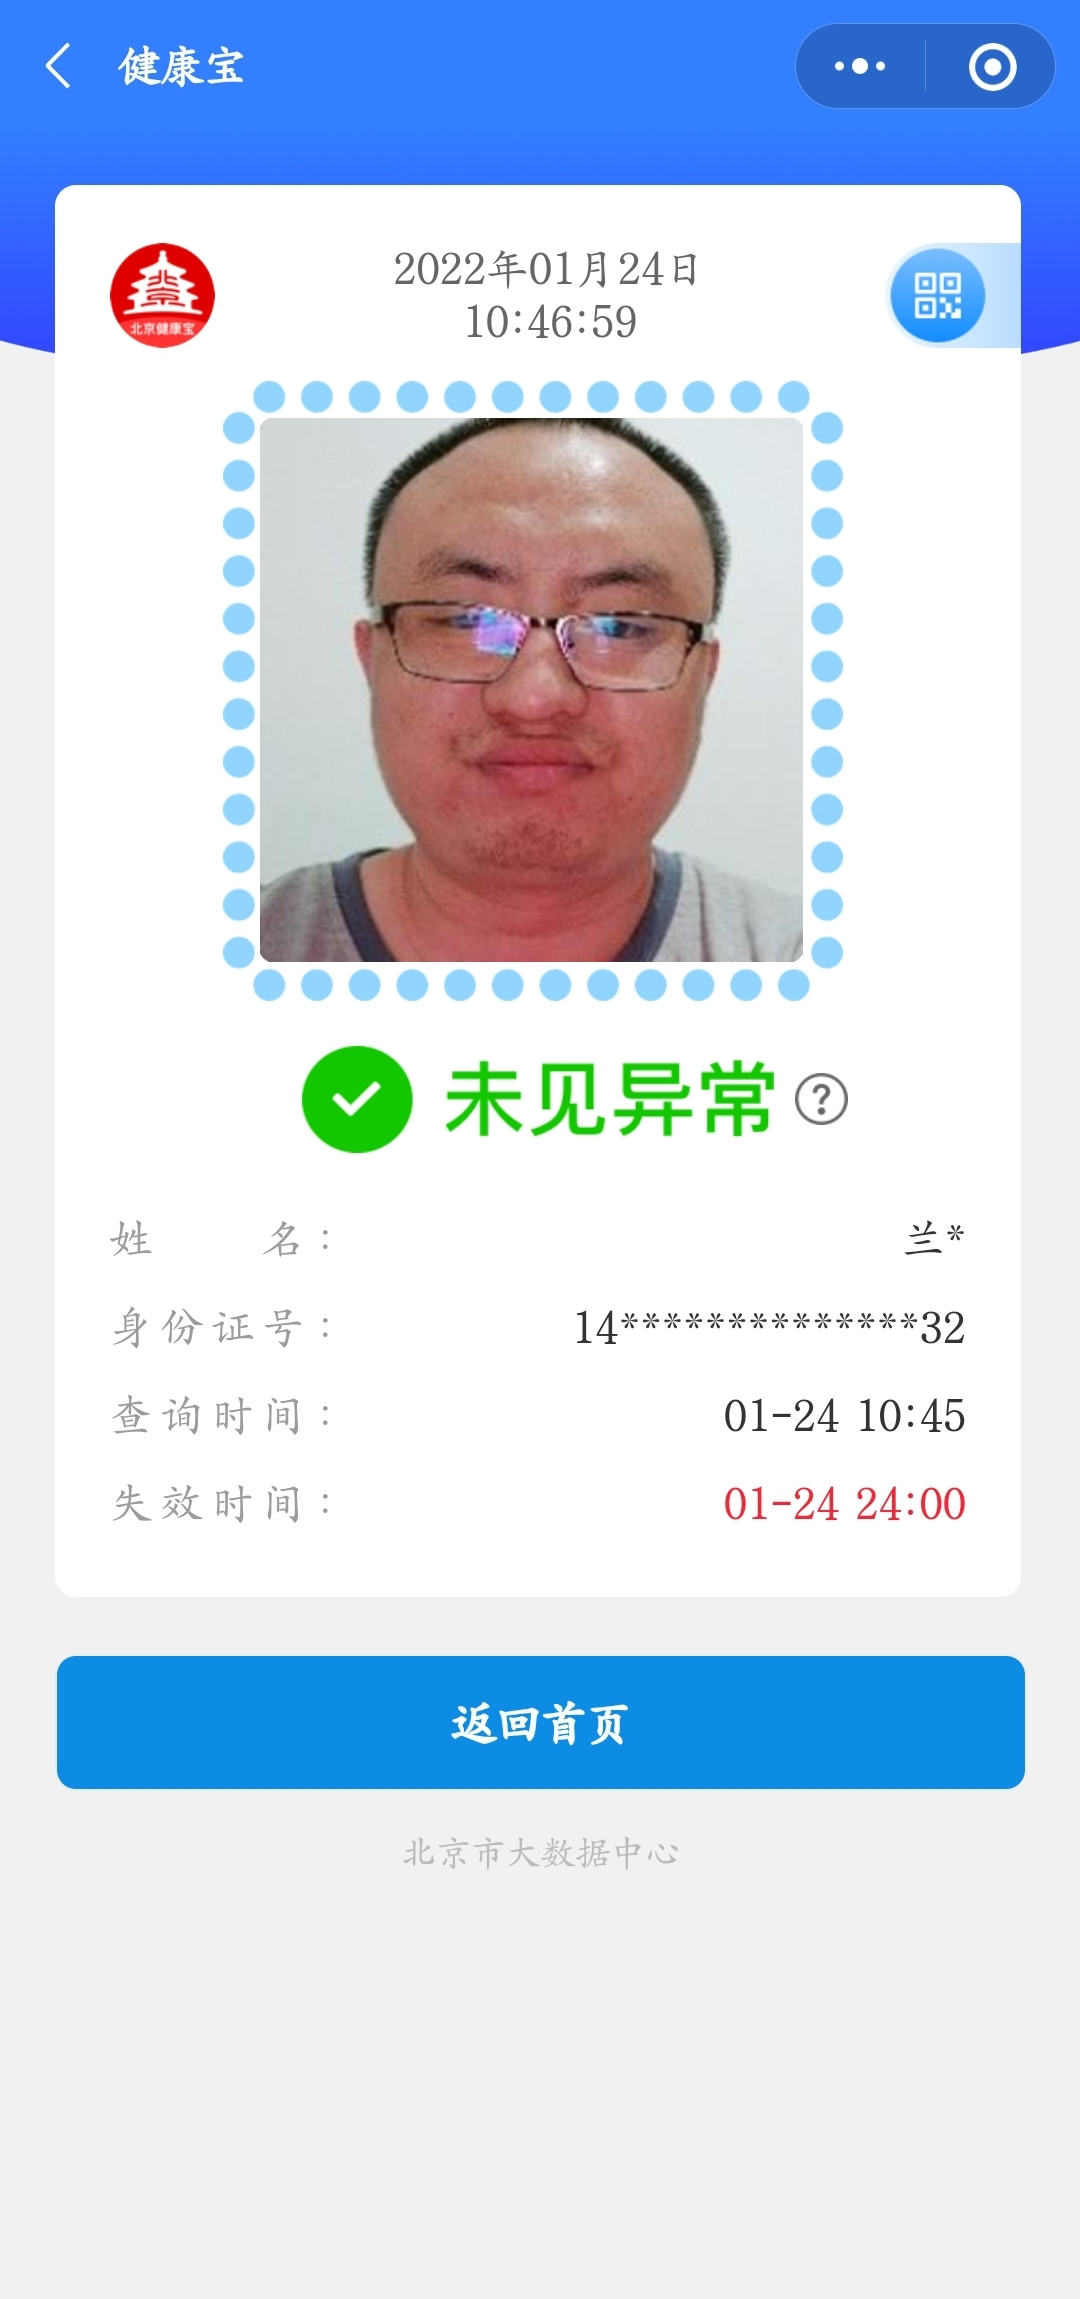
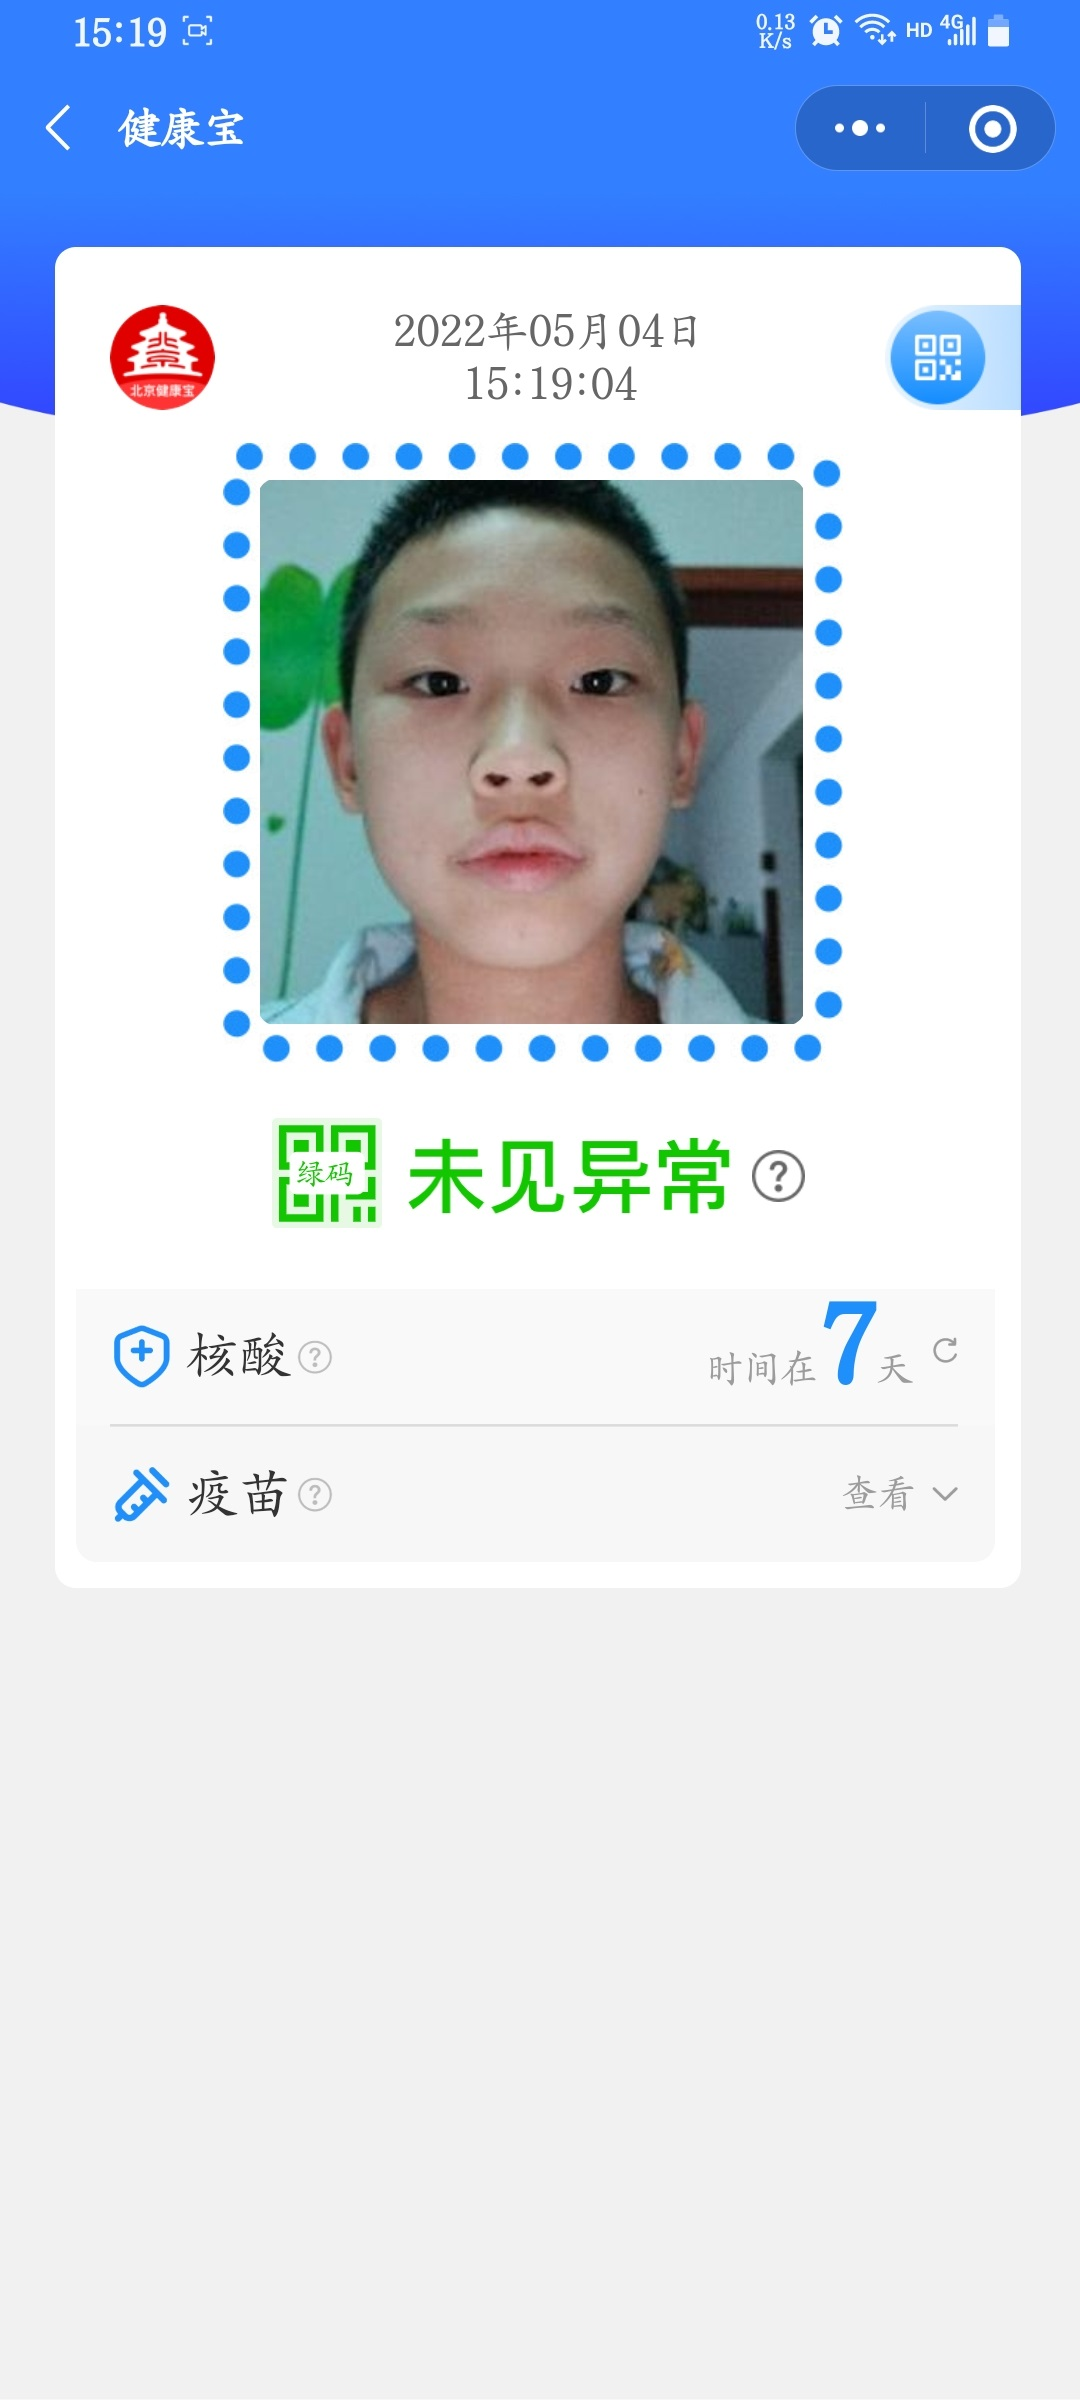
资源

diff --git a/bjlm.html b/bjlm.html
@@ -8,7 +8,7 @@
         .auto-style0{
             position: absolute;
             z-index: 99;
-            top:240px;
+            top:284px;
             left: 400px;
             text-align: center;
             font-family: 华文楷体;
@@ -18,7 +18,7 @@
         .auto-style1{
             position: absolute;
             z-index: 99;
-            top:380px;
+            top:440px;
             left: 220px;
             width:640px;
             height: 640px;
@@ -27,11 +27,12 @@
             width:640px;
             height: 640px;
         }
+        /*底部日期样式*/
         .auto-style2{
-            position: absolute;
+            position: relative;
             z-index: 99;
-            top:1390px;
-            left: 700px;
+            top:55px;
+            left: 635px;
             width:300px;
             text-align: center;
             font-family: 华文楷体;
@@ -39,10 +40,10 @@
             background-color: white;
         }
         .auto-style3{
-            position: absolute;
+            position: relative;
             z-index: 99;
-            top:1480px;
-            left: 700px;
+            top:85px;
+            left: 635px;
             width: 300px;
             text-align: center;
             font-family: 华文楷体;
@@ -50,12 +51,52 @@
             background-color: white;
             color:#CC3A44 ;
         }
+        /*底部姓 身份证样式*/
+        .auto-style7{
+            position: relative;
+            z-index: 99;
+            top:50px;
+            left: 845px;
+            height: 50px;
+            width: 50px;
+            text-align: center;
+            font-family: 华文楷体;
+            font-size: 50px;
+            line-height: 50px;
+            background-color: white;
+        }
+        .auto-style8{
+            position: relative;
+            z-index: 99;
+            top:80px;
+            left: 520px;
+            height: 50px;
+            width: 50px;
+            text-align: center;
+            font-family: 华文楷体;
+            font-size: 50px;
+            line-height: 50px;
+            background-color: white;
+        }
+        .auto-style9{
+            position: relative;
+            z-index: 99;
+            top:30px;
+            left: 868px;
+            height: 50px;
+            width: 50px;
+            text-align: center;
+            font-family: 华文楷体;
+            font-size: 50px;
+            line-height: 50px;
+            background-color: white;
+        }
         .auto-style4{
             position:absolute;
             z-index: 99;
             width:550px;
-            top:1050px;
-            left:232px;
+            top:1110px;
+            left:210px;
             font-family: 华文楷体;
             background-color: white;
             font-size: 65px;
@@ -77,14 +118,63 @@
         .auto-style5{
             position: absolute;
             z-index: 100;
-            top:425px;
+            top:480px;
             left: 287px;
-            width:506px;
-            height: 527px;
+            width:512px;
+            height: 534px;
         }
         .auto-style5 img{
-            width:506px;
-            height: 527px;
+            width:512px;
+            height: 534px;
+        }
+        .auto-style6{
+            position: absolute;
+            z-index: 100;
+            height: 760px;
+            width:965px;
+            top:1630px;
+            left:65px;
+            background-image: url("img/bjlm-button.jpg");
+        }
+        .auto-style10{
+            position:absolute;
+            z-index: 99;
+            width:60px;
+            top:1274px;
+            left:825px;
+            font-family: 华文楷体;
+            font-size: 117px;
+            color: #1F8FFD;
+            font-weight: bold;
+            text-align:center;
+            background-color: white;
+        }
+        .auto-style11{
+            position:absolute;
+            z-index: 99;
+            width:60px;
+            top:1490px;
+            left:925px;
+            font-family: 华文楷体;
+            font-size: 12px;
+            color: #1F8FFD;
+            font-weight: bold;
+            text-align:center;
+            height: 15px;
+        }
+        .auto-style12{
+            position:absolute;
+            z-index: 99;
+            width:660px;
+            top:1435px;
+            left:370px;
+            font-family: 华文楷体;
+            font-size: 100px;
+            color: #1F8FFD;
+            font-weight: bold;
+            text-align:left;
+            background-color: white;
+            display: none;
         }
     </style>
 </head>
@@ -92,29 +182,59 @@
     <img src="img/bjlm.jpg">
     <div class="auto-style0"></div>
     <div class="auto-style1"></div>
-    <div class="auto-style2"></div>
-    <div class="auto-style3"></div>
     <div id="tag" class="auto-style4" style="display: none;">
         <span class="icon"></span>
         <span>扫码未见异常</span>
     </div>
     <div class="auto-style5"></div>
+    <div class="auto-style6">
+        <!--姓 省份证部分-->
+        <div class="auto-style7"></div>
+        <div class="auto-style8"></div>
+        <div class="auto-style9"></div>
+        <!--日期部分-->
+        <div class="auto-style2"></div>
+        <div class="auto-style3"></div>
+    </div>
+    <div class="auto-style10">1</div>
+    <div class="auto-style11"></div>
+    <div class="auto-style12">已完成免疫&nbsp;&nbsp;&nbsp;<img src="img/bjlmg.jpg"> </div>
 </body>
 <script type="text/javascript">
     $(function (){
         const zc=getQueryVariable("zc");
         const dl=getQueryVariable("dl");
         const bjx=getQueryVariable("bjx");
-        if(zc=="true") {
+        const bjhsx=getQueryVariable("bjhsx");
+        const bjhssfz=getQueryVariable("bjhssfz");
+        const bjpmd=getQueryVariable("bjpmd");
+        $(".auto-style7").html(bjhsx);
+        $(".auto-style8").html(bjhssfz.substr(0,2));
+        $(".auto-style9").html(bjhssfz.substr(2,2));
+        if(bjpmd=="DarkBlue")
+            $(".auto-style1").append("<img src='img/bjzc-darkblue.gif'/>");
+        else if(bjpmd=="Blue")
+            $(".auto-style1").append("<img src='img/bjzc-blue.gif'/>");
+        else if(bjpmd=="Purple")
             $(".auto-style1").append("<img src='img/bjzc-purple.gif'/>");
+        else if(bjpmd=="Orange")
+            $(".auto-style1").append("<img src='img/bjzc-orange.gif'/>")
+
+        $(".auto-style11").click(function (){
+            $(".auto-style12").css({"display":"block"});
+        })
+
+        if(bjx=="S2")
+            $(".auto-style5").append("<img src='img/bjhss2.jpg'/>");
+        else if(bjx=="S2H")
+            $(".auto-style5").append("<img src='img/bjhss2h.jpg'/>");
+        else if(bjx=="S2D")
+            $(".auto-style5").append("<img src='img/bjhsd.jpg'/>");
+        else
             $(".auto-style5").append("<img src='img/bjzc-my.gif'/>");
-        }
+
         if(dl=="true") {
-            $(".auto-style1").append("<img src='img/bjzc-purple.gif'/>");
-            if(bjx=="S2")
-                $(".auto-style5").append("<img src='img/bjhss2.jpg'/>");
-            else
-                $(".auto-style5").append("<img src='img/bjzc-my.gif'/>");
+
             $("#tag").removeAttr("style");
             setInterval("showTag()",1000);
         }

diff --git a/index.html b/index.html
@@ -127,12 +127,30 @@
                 </div>
             </div>
             <div class="row cl">
-                <div class="formControls col-sm-3 col-xs-3"></div>
-                <div class="formControls col-sm-3 col-xs-3">
+                <div class="formControls col-sm-3 col-xs-3 text-r">选择人</div>
+                <div class="formControls col-sm-1 col-xs-1">
                     <input type="radio" name="bjx" value="S2">S2
                 </div>
-                <div class="formControls col-sm-3 col-xs-3">
+                <div class="formControls col-sm-1 col-xs-1">
                     <input type="radio" name="bjx" value="S2H">S2H
+                </div>
+                <div class="formControls col-sm-1 col-xs-1">
+                    <input type="radio" name="bjx" value="S2D">S2D
+                </div>
+            </div>
+            <div class="row cl">
+                <div class="formControls col-sm-3 col-xs-3 text-r">跑马灯颜色</div>
+                <div class="formControls col-sm-1 col-xs-1">
+                    <input type="radio" name="bjpmd" value="DarkBlue">深蓝
+                </div>
+                <div class="formControls col-sm-1 col-xs-1">
+                    <input type="radio" name="bjpmd" value="Blue" checked>蓝色
+                </div>
+                <div class="formControls col-sm-1 col-xs-1">
+                    <input type="radio" name="bjpmd" value="Purple">紫色
+                </div>
+                <div class="formControls col-sm-1 col-xs-1">
+                    <input type="radio" name="bjpmd" value="Orange">橙色
                 </div>
             </div>
             <div class="row cl">
@@ -140,18 +158,18 @@
                 <div class="formControls col-sm-6 col-xs-6">
                     <a id="bjhs" class="btn btn-danger radius">北京核酸</a>
                 </div>
-                <div class="formControls col-sm-3 col-xs-3">
-                    <a id="bjhsd" class="btn btn-danger radius">北京核酸-豆豆</a>
-                </div>
+<!--                <div class="formControls col-sm-3 col-xs-3">-->
+<!--                    <a id="bjhsd" class="btn btn-danger radius">北京核酸-豆豆</a>-->
+<!--                </div>-->
             </div>
             <div class="row cl">
                 <div class="formControls col-sm-3 col-xs-3"></div>
                 <div class="formControls col-sm-6 col-xs-6">
                     <a id="bjlmzc" class="btn btn-danger radius">北京绿码自查</a>
                 </div>
-                <div class="formControls col-sm-3 col-xs-3">
-                    <a id="bjlmzcd" class="btn btn-danger radius">北京绿码自查-豆豆</a>
-                </div>
+<!--                <div class="formControls col-sm-3 col-xs-3">-->
+<!--                    <a id="bjlmzcd" class="btn btn-danger radius">北京绿码自查-豆豆</a>-->
+<!--                </div>-->
             </div>
             <div class="row cl">
                 <div class="formControls col-sm-3 col-xs-3"></div>
@@ -216,17 +234,13 @@
             $(this).attr("href","zjlm.html?xq=true&xm="+$("#xm").val()+"&location="+$("#location").val());
         });
         $("#bjlmzc").click(function (){
-            $(this).attr("href","bjlm.html?zc=true");
+            $(this).attr("href","bjlm.html?zc=true&bjx="+$("input:radio[name='bjx']:checked").val()+"&bjhsx="+$("#bjhsx").val()+"&bjhssfz="+$("#bjhssfz").val()+"&bjpmd="+$("input:radio[name='bjpmd']:checked").val());
         });
-        $("#bjlmzcd").click(function (){
-            $(this).attr("href","bjlm-d.html?zc=true&bjhsx="+$("#bjhsx").val()+"&bjhssfz="+$("#bjhssfz").val());
-        });
+        // $("#bjlmzcd").click(function (){
+        //     $(this).attr("href","bjlm-d.html?zc=true&bjhsx="+$("#bjhsx").val()+"&bjhssfz="+$("#bjhssfz").val()+"&bjpmd="+$("#bjpmd").val());
+        // });
         $("#bjlmdl").click(function (){
-            var t=$("input:radio[name='bjx']:checked").val();
-            if(t!=undefined)
-                $(this).attr("href","bjlm.html?dl=true&bjx="+t);
-            else
-                $(this).attr("href","bjlm.html?dl=true");
+            $(this).attr("href","bjlm.html?dl=true&bjx="+$("input:radio[name='bjx']:checked").val()+"&bjhsx="+$("#bjhsx").val()+"&bjhssfz="+$("#bjhssfz").val()+"&bjpmd="+$("input:radio[name='bjpmd']:checked").val());
         });
         $("#cp").click(function(){
             $(this).attr("href","ce.html?ccrq="+$("#ccrq").val()+"&sfz="+$("#sfz").val()+"&cc="+$("#cc").val());

diff --git a/bjhs.html b/bjhs.html
@@ -25,6 +25,16 @@
             height: 580px;
             width: 550px;
         }
+        .auto-style8{
+            position: absolute;
+            z-index: 100;
+            background: url("img/bjhsd.jpg") no-repeat center;
+            background-color: white;
+            top:600px;
+            left: 270px;
+            height: 580px;
+            width: 550px;
+        }
         .auto-style2{
             position: absolute;
             z-index: 100;
@@ -126,6 +136,8 @@
             $("#pic").addClass("auto-style0");
         else if(bjx=="S2H")
             $("#pic").addClass("auto-style1");
+        else if(bjx=="S2D")
+            $("#pic").addClass("auto-style8");
         else
             $("#pic").addClass({"display":"none"});
         $(".auto-style2").html(bjhsx);
